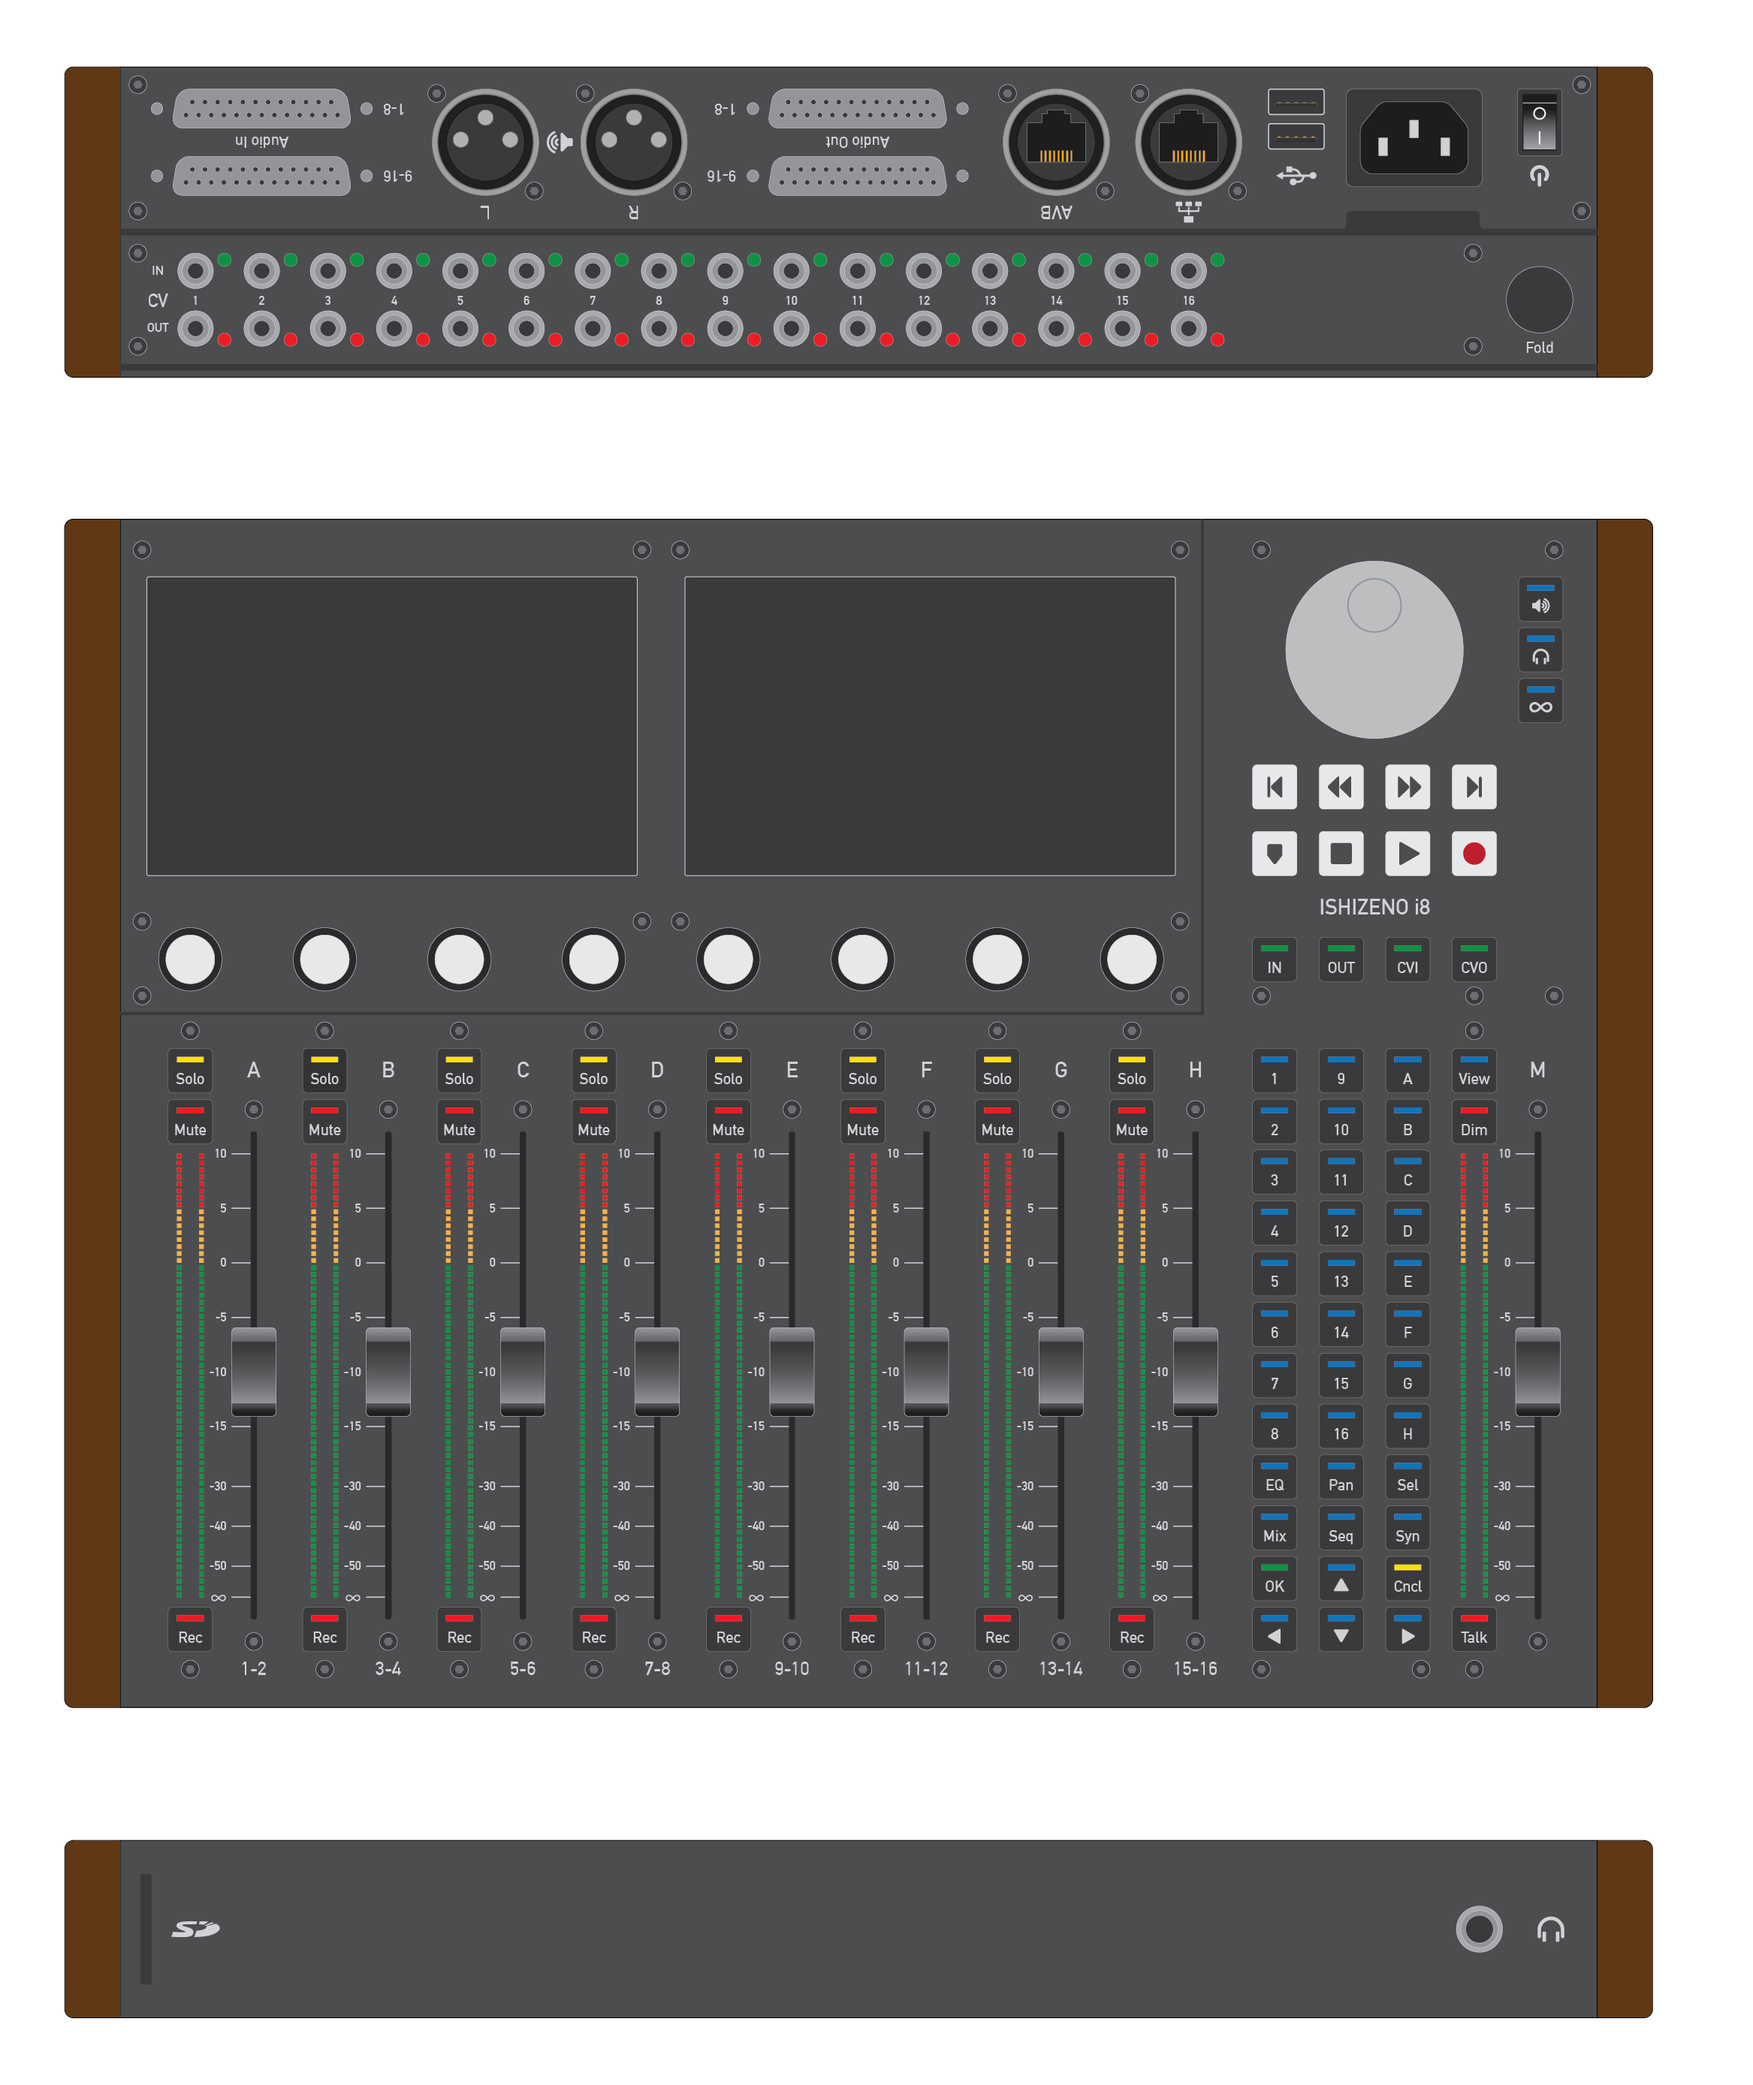
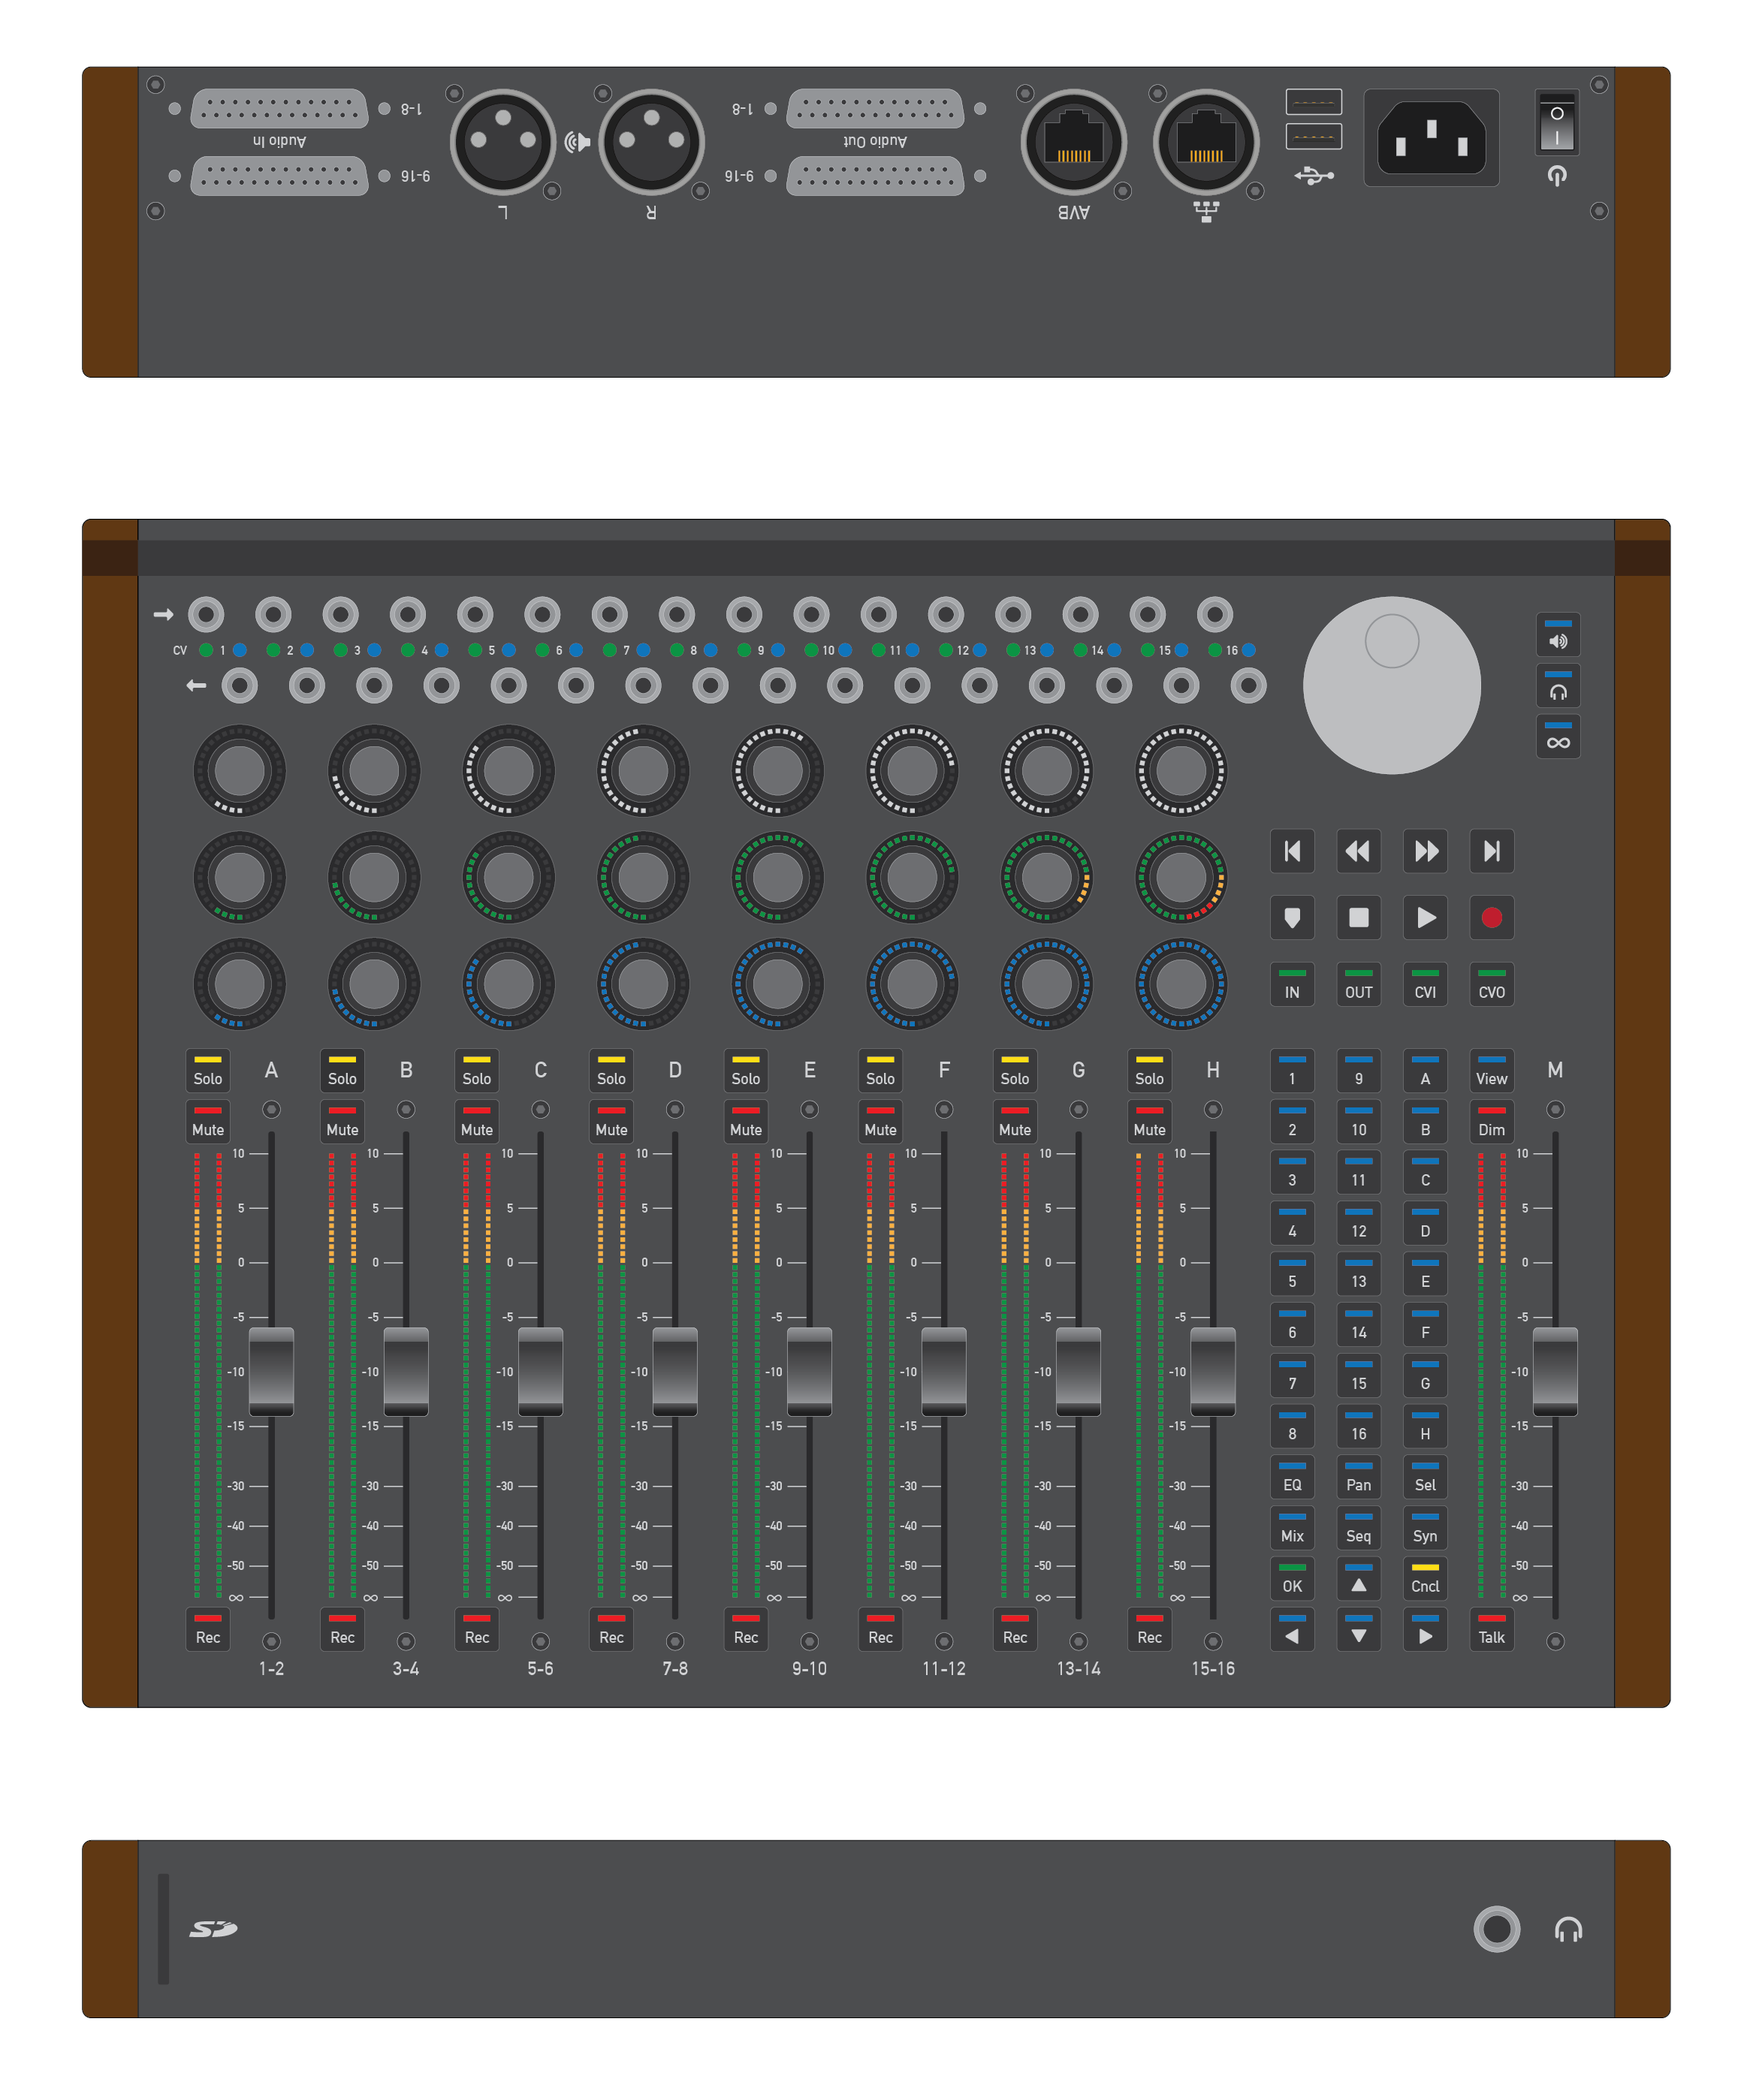
Updated website

diff --git a/index.html b/index.html
@@ -129,9 +129,9 @@
                             <i class="fa fa-power-off"></i>
                             <h3>Versatile</h3>
                             <p>
-                                Start with a 16×16 32-bit audio interface.<br>
+                                Start with a 16×20 32-bit audio interface.<br>
                                 Add a powerful FPGA-powered synthesizer.<br>
-                                Wrap with a 16-channel control surface.
+                                Wrap with an 18-channel control surface.
                             </p>
                         </div>
                     </div>
@@ -151,7 +151,7 @@
                             <i class="fa fa-github-alt"></i>
                             <h3>Open</h3>
                             <p>
-                                Customize any of the 15 printed circuit boards.<br>
+                                Customize any of the 4 printed circuit boards.<br>
                                 Develop user interfaces as web applications.<br>
                                 Open design hardware, open source software.
                             </p>
@@ -193,7 +193,7 @@
                     <div class="col-md-8 col-md-offset-2">
                         <div class="text-left">
                             <p>
-                                ISHIZENO i8 is currently under development. We are now in the process of gathering <a href="https://docs.google.com/spreadsheets/d/1R6DKdeEwwQq7qCXW4_l9Yxj6cd260YzhvAQlDXZHuxg/edit#gid=0" target="external">requirements</a> and validating some of the core technologies that we are planning to integrate into the system, like the <a href="http://www.xilinx.com/products/silicon-devices/soc/zynq-ultrascale-mpsoc.html" target="external">Zynq UltraScale+</a> MPSoC or the <a href="" target="external">XMOS XEF200</a> multicore microcontroller. If we do not hit any major roadblock, we hope to complete a first prototype in 2016, and a small batch the year after.
+                                ISHIZENO i8 is currently under development. We are now in the process of gathering <a href="https://docs.google.com/spreadsheets/d/1R6DKdeEwwQq7qCXW4_l9Yxj6cd260YzhvAQlDXZHuxg/edit#gid=0" target="external">requirements</a> and validating some of the core technologies that we are planning to integrate into the system, like the <a href="http://www.xilinx.com/products/silicon-devices/soc/zynq-ultrascale-mpsoc.html" target="external">Zynq UltraScale+</a> MPSoC or the <a href="" target="external">XMOS XEF200</a> multicore microcontroller. If we do not hit any major roadblock, we hope to complete a first prototype in 2016, and a small production run the year after.
                             </p>
                             <p>
                                 ISHIZENO i8 is designed by <a href="https://www.linkedin.com/in/ghalimi/en" target="external">Ismael Ghalimi</a>, who is neither a musician, nor an electrical engineer. Instead, he applies his expertise with software development and his unadulterated perspective on audio synthesis and sound processing to create something new and radical.
@@ -228,7 +228,7 @@
                                 <div class="service-info">
                                     <h4>Audio Interface</h4>
                                     <p>
-                                        16×16 audio interface with 32-bit sampling at 384 kHz.<br>
+                                        16×20 audio interface with 32-bit sampling at 384 kHz.<br>
                                         Built-in digital mixer and audiophile headphones amplifier.
                                     </p>
                                 </div>
@@ -246,8 +246,8 @@
                                 <div class="service-info">
                                     <h4>64 Channel Oscilloscope</h4>
                                     <p>
+                                        32-bit audio sampling at 384 KHz.<br>
                                         16-bit CV sampling at 200 kSPS.<br>
-                                        Dual 800×480 folding color touchscreens.
                                     </p>
                                 </div>
                             </div>
@@ -268,7 +268,7 @@
                                     <h4>Hybrid Synthesizer</h4>
                                     <p>
                                         16 analog CV inputs and 16 analog CV outputs.<br>
-                                        166 CPU cores, 3,528 FPGA DSP slices.
+                                        22 CPU cores, 3,528 FPGA DSP slices.
                                     </p>
                                 </div>
                             </div>
@@ -307,7 +307,7 @@
                                     <h4>Control Surface</h4>
                                     <p>
                                         9 motorized faders with dual 64-LED RGB bargraphs.<br>
-                                        Shuttle wheel, 8 RGB illuminated knobs, 78 switches.
+                                        Shuttle wheel, 24 RGB illuminated knobs, 78 switches.
                                     </p>
                                 </div>
                             </div>
@@ -420,7 +420,7 @@
                     <div class="col-md-8 col-md-offset-2 margin-btm-30">
                         <div class="text-left">
                             <p>
-                                The ISHIZENO i8 is built in a modular fashion with 15 printed circuit boards: power supply unit, backplane, audio converters, CV converters, headphones amplifier, and user interfaces. Its design is optimized to reduce latency and jitter, while offering unprecedented levels of sound processing power.
+                                The ISHIZENO i8 is built in a modular fashion with 4 customizable printed circuit boards: backplane, audio interface, CV interface, and faceplate. Its design is optimized to reduce latency and jitter, while offering unprecedented levels of sound processing power.
                             </p>
                         </div>
                     </div>
@@ -436,7 +436,7 @@
                                 <div class="work-detail">
                                     <h2>Balanced Design</h2>
                                     <p>
-                                        Each one of the 8 stereo inputs and 9 stereo outputs is driven by its own audio converter, a dedicated set of FPGA I/Os, and a dedicated 8-core <a href="http://www.xmos.com/products/silicon/xcore-200/xu-series" target="external">XUF208</a> microcontroller. The <a href="http://esstech.com/PDF/ES9102C%20PB%20v0.3%20140820.pdf" target="external">ES9102C</a> is used for analog-to-digital conversion, while the <a href="http://esstech.com/PDF/ES9018S%20PB%20v1.7%20140916.pdf" target="external">ES9018</a> is used for digital-to-analog conversion.
+                                        Each one of the 8 stereo inputs and 10 stereo outputs is driven by its own audio converter, and a dedicated set of FPGA I/Os. The <a href="http://esstech.com/PDF/ES9102C%20PB%20v0.3%20140820.pdf" target="external">ES9102C</a> is used for analog-to-digital conversion (+124 dB SNR, –118 dB THD+N), while the <a href="http://esstech.com/PDF/ES9018S%20PB%20v1.7%20140916.pdf" target="external">ES9018</a> is used for digital-to-analog (+133 dB SNR, –120 dB THD+N).
                                     </p>
                                     <p>
                                         Every audio converter is attached to a dedicated set of power regulators mounted on individual boards, with 11 boards used for each ADC converter, and 4 boards for each DAC converter.
@@ -468,10 +468,10 @@
                                 <div class="work-detail">
                                     <h2>Audio Mixing</h2>
                                     <p>
-                                        The faceplate includes 9 motorized faders (100 mm) with dual 64-LED RGB bargraphs (one per mono channel), 8 RGB illuminated knobs with SPST switching, one 40 mm shuttle wheel, and 78 illuminated switches.
+                                        The faceplate includes 9 motorized faders (100 mm) with dual 64-LED RGB bargraphs (one per mono channel), 24 RGB illuminated knobs with SPST switching, one 40 mm shuttle wheel, and 78 illuminated switches.
                                     </p>
                                     <p>
-                                        Mixing is done in the digital domain for the 9 stereophonic audio outputs, and a virtually unlimited number of digital audio channels produced by the 3,528 DSP slices provided by the FPGA, and the 160 CPU cores offered by the XMOS microcontrollers.
+                                        Mixing is done in the digital domain for the 10 stereophonic audio outputs, and a virtually unlimited number of digital audio channels produced by the 3,528 DSP slices provided by the FPGA, and the 22 CPU cores offered by the Zynq device and XMOS microcontroller.
                                     </p>
                                 </div>
                             </div>
@@ -517,7 +517,8 @@
                         <div class="col-md-9">
                             <p>1 × 40 mm shuttle wheel</p>
                             <p>2 × folding touchscreens (16-bit colors, 800 × 480 resolution)</p>
-                            <p>8 × RGB illuminated 24 PPR rotary encoders with SPST switching</p>
+                            <p>24 × rotary encoders with 32 PPR and SPST switching</p>
+                            <p>24 × illumination rings with 32 RGB LEDs</p>
                             <p>9 × 100 mm motorized faders</p>
                             <p>9 × 100 mm dual 64-LED RGB bargraphs</p>
                             <p>78 × illuminated switches</p>
@@ -536,7 +537,6 @@
                             <p>32 × RGB LEDs</p>
                             <p>Automatic CV output calibration</p>
                             <p>Digital-to-analog CV converter temperature control</p>
-                            <p>Mechanical folding button</p>
                         </div>
                         <div class="col-md-12">
                             <hr>
@@ -608,8 +608,8 @@
                             <p class="lead feature">DAC Board</p>
                         </div>
                         <div class="col-md-9">
-                            <p>9 × ES9018 digital-to-analog converters</p>
-                            <p>8 + 1 stereo channels</p>
+                            <p>10 × ES9018 digital-to-analog converters</p>
+                            <p>8 + 2 stereo channels</p>
                             <p>Full 32-bit conversion</p>
                             <p>64-bit accumulator</p>
                             <p>Up to 1.5 MHz sampling rate</p>
@@ -930,7 +930,7 @@
                     </div>
                     <div class="col-md-4 margin-btm-30 text-center">
                         <div class="fact-inner">
-                            <h1><span class="counter">166</span></h1>
+                            <h1><span class="counter">22</span></h1>
                             <h3>CPU Cores</h3>
                         </div>
                     </div>
